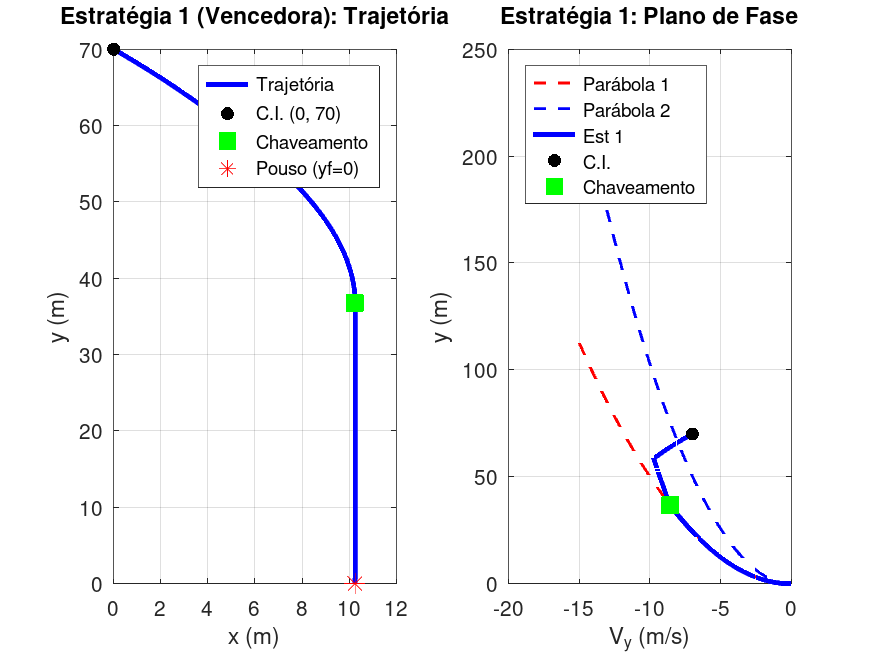
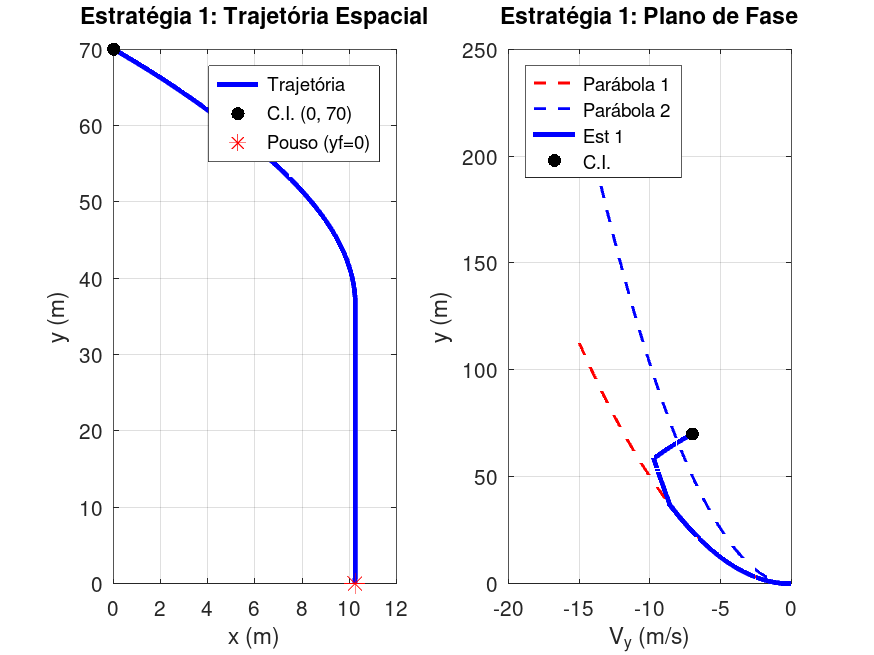
pdb4

diff --git a/problema 4/pb4.m b/problema 4/pb4.m
@@ -65,7 +65,6 @@ Vy_ch3   = V0y - g*t_livre3 + ay_34*t_freio_x;    % Vy chaveamento = -7.72 m/s
 y_ch3    = (y0 + V0y*t_livre3 - 0.5*g*t_livre3^2) + (V0y - g*t_livre3)*t_freio_x + 0.5*ay_34*t_freio_x^2; % 42.75 m
 x_ch3    = V0x * t_livre3 + dx_brake;             % x chaveamento = 8.53 m
 
-% Cálculo exato de t3_A (tempo em ±34°) e t3_B (tempo em 0°) para pousar em (0,0)
 A3_quad = 0.5 * ay_34 * (1 - ay_34 / ay_zero);
 B3_quad = Vy_ch3 * (1 - ay_34 / ay_zero);
 C3_quad = y_ch3 - (Vy_ch3^2) / (2 * ay_zero);
@@ -167,49 +166,43 @@ end
 figure('Name', 'Estratégia 1 (Vencedora)', 'Color', 'w');
 subplot(1,2,1); plot(x1, y1_sim, 'b-', 'LineWidth', 2.5); hold on; grid on; box on;
 plot(x1(1), y1_sim(1), 'ko', 'MarkerFaceColor', 'k');
-plot(x_ch1, y_ch1, 'gs', 'MarkerFaceColor', 'g', 'MarkerSize', 8);
 plot(x1(end), y1_sim(end), 'r*', 'MarkerSize', 10);
-xlabel('x (m)'); ylabel('y (m)'); title('Estratégia 1 (Vencedora): Trajetória');
-legend('Trajetória', 'C.I. (0, 70)', 'Chaveamento', 'Pouso (yf=0)');
+xlabel('x (m)'); ylabel('y (m)'); title('Estratégia 1: Trajetória Espacial');
+legend('Trajetória', 'C.I. (0, 70)', 'Pouso (yf=0)');
 
 subplot(1,2,2); plot(Vy_vec, y_parabola1, 'r--', 'LineWidth', 1.5); hold on; grid on; box on;
 plot(Vy_vec, y_parabola2, 'b--', 'LineWidth', 1.5);
 plot(Vy1_sim, y1_sim, 'b-', 'LineWidth', 2.5); plot(V0y, y0, 'ko', 'MarkerFaceColor', 'k');
-plot(Vy_ch1, y_ch1, 'gs', 'MarkerFaceColor', 'g', 'MarkerSize', 8);
 xlabel('V_y (m/s)'); ylabel('y (m)'); title('Estratégia 1: Plano de Fase');
-legend('Parábola 1', 'Parábola 2', 'Est 1', 'C.I.', 'Chaveamento', 'Location', 'northwest');
+legend('Parábola 1', 'Parábola 2', 'Est 1', 'C.I.', 'Location', 'northwest');
 
 % Figura 3: Estratégia 2
 figure('Name', 'Estratégia 2', 'Color', 'w');
 subplot(1,2,1); plot(x2, y2_sim, 'g-', 'LineWidth', 2.5); hold on; grid on; box on;
 plot(x2(1), y2_sim(1), 'ko', 'MarkerFaceColor', 'k');
-plot(x_ch2, y_ch2, 'bs', 'MarkerFaceColor', 'b', 'MarkerSize', 8);
 plot(x2(end), y2_sim(end), 'r*', 'MarkerSize', 10);
 xlabel('x (m)'); ylabel('y (m)'); title('Estratégia 2: Trajetória Espacial');
-legend('Trajetória', 'C.I. (0, 70)', 'Chaveamento', 'Pouso (yf=0)');
+legend('Trajetória', 'C.I. (0, 70)', 'Pouso (yf=0)');
 
 subplot(1,2,2); plot(Vy_vec, y_parabola1, 'r--', 'LineWidth', 1.5); hold on; grid on; box on;
 plot(Vy_vec, y_parabola2, 'b--', 'LineWidth', 1.5);
 plot(Vy2_sim, y2_sim, 'g-', 'LineWidth', 2.5); plot(V0y, y0, 'ko', 'MarkerFaceColor', 'k');
-plot(Vy_ch2, y_ch2, 'bs', 'MarkerFaceColor', 'b', 'MarkerSize', 8);
 xlabel('V_y (m/s)'); ylabel('y (m)'); title('Estratégia 2: Plano de Fase');
-legend('Parábola 1', 'Parábola 2', 'Est 2', 'C.I.', 'Chaveamento', 'Location', 'northwest');
+legend('Parábola 1', 'Parábola 2', 'Est 2', 'C.I.', 'Location', 'northwest');
 
 % Figura 4: Estratégia 3
 figure('Name', 'Estratégia 3', 'Color', 'w');
 subplot(1,2,1); plot(x3, y3_sim, 'm-', 'LineWidth', 2.5); hold on; grid on; box on;
 plot(x3(1), y3_sim(1), 'ko', 'MarkerFaceColor', 'k');
-plot(x_ch3, y_ch3, 'cs', 'MarkerFaceColor', 'c', 'MarkerSize', 8);
 plot(x3(end), y3_sim(end), 'r*', 'MarkerSize', 10);
 xlabel('x (m)'); ylabel('y (m)'); title('Estratégia 3: Trajetória Espacial');
-legend('Trajetória', 'C.I. (0, 70)', 'Chaveamento', 'Pouso (yf=0)');
+legend('Trajetória', 'C.I. (0, 70)', 'Pouso (yf=0)');
 
 subplot(1,2,2); plot(Vy_vec, y_parabola1, 'r--', 'LineWidth', 1.5); hold on; grid on; box on;
 plot(Vy_vec, y_parabola2, 'b--', 'LineWidth', 1.5);
 plot(Vy3_sim, y3_sim, 'm-', 'LineWidth', 2.5); plot(V0y, y0, 'ko', 'MarkerFaceColor', 'k');
-plot(Vy_ch3, y_ch3, 'cs', 'MarkerFaceColor', 'c', 'MarkerSize', 8);
 xlabel('V_y (m/s)'); ylabel('y (m)'); title('Estratégia 3: Plano de Fase');
-legend('Parábola 1', 'Parábola 2', 'Est 3', 'C.I.', 'Chaveamento', 'Location', 'northwest');
+legend('Parábola 1', 'Parábola 2', 'Est 3', 'C.I.', 'Location', 'northwest');
 
 saveas(figure(1), 'janela_pouso.png');
 saveas(figure(2), 'estrategia1.png');
